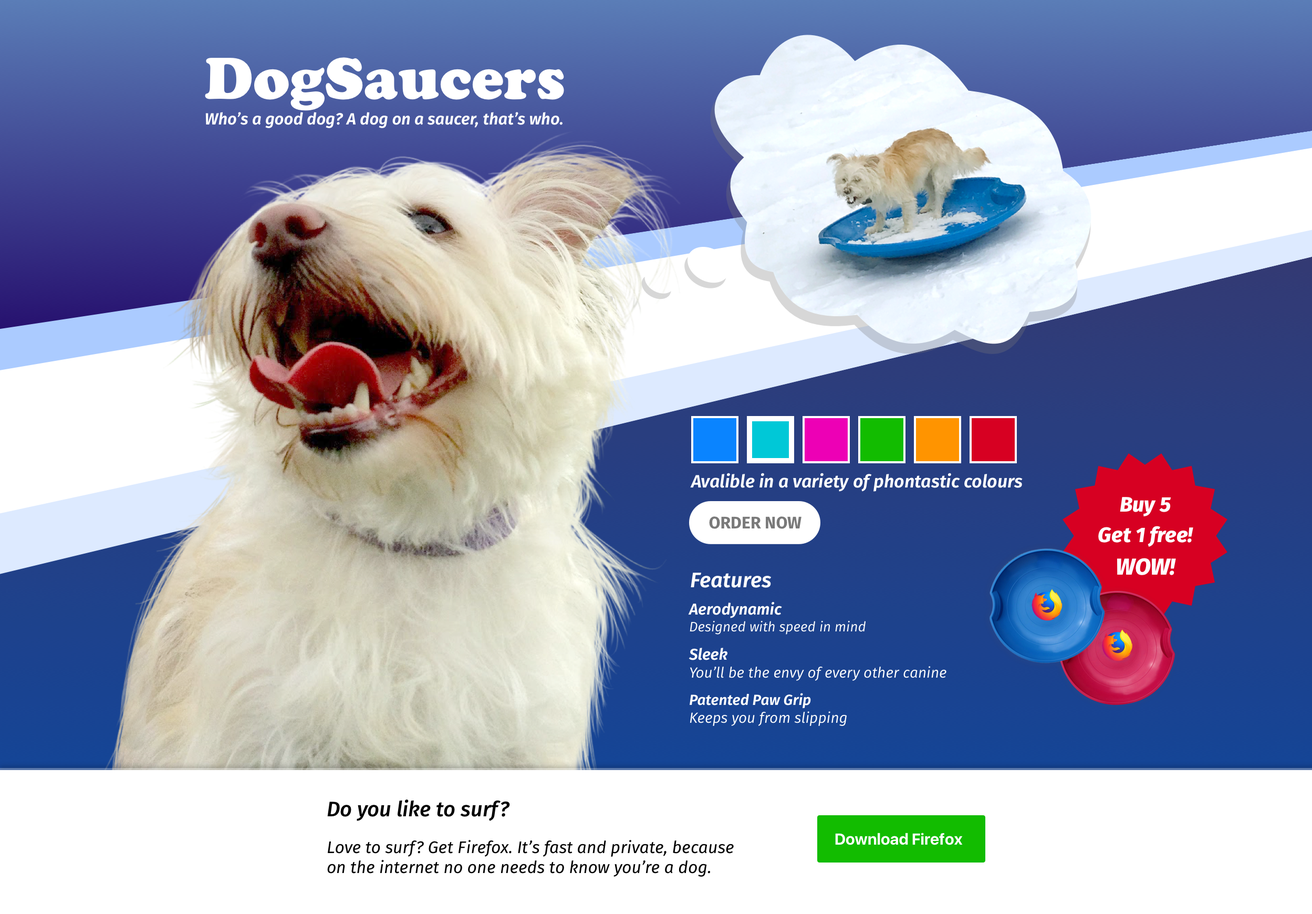
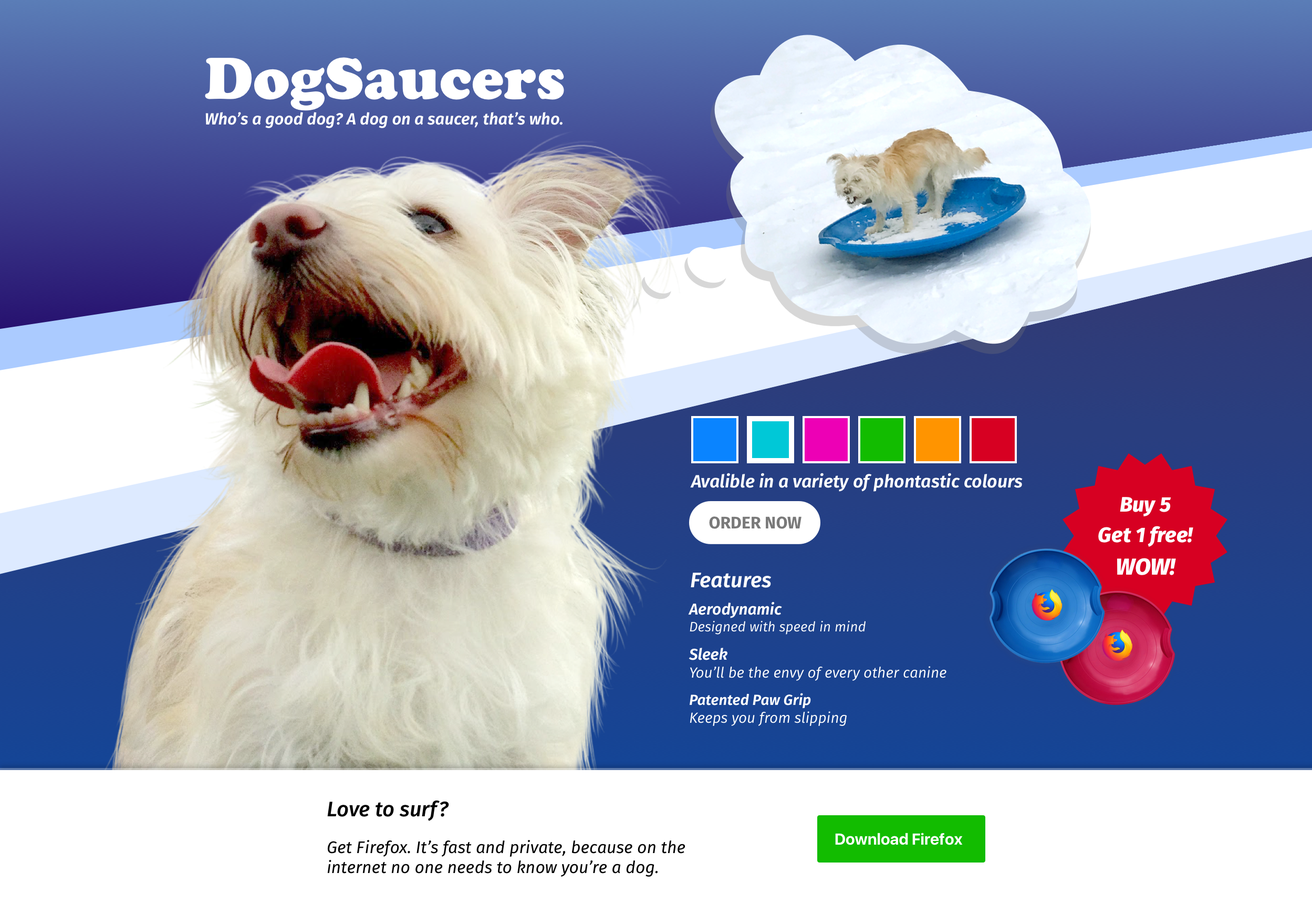
updated copy

Changed region(s): [[0.2498, 0.869, 0.562, 0.9621]]

diff --git a/DogSaucers/index.html b/DogSaucers/index.html
@@ -1559,7 +1559,7 @@ var I18N = {},
     init.prototype = SMApp.fn;
     window.SMApp = SMApp;
 })(window);
-$(function(){ SMApp({"scale":"1","unit":"px","colorFormat":"color-hex","artboards":[{"layers":[{"objectID":"B82E5E62-7A76-4EE8-A28B-AD72DE5DFCA9","type":"slice","name":"Background","rect":{"x":-251,"y":-90,"width":1718,"height":894},"exportable":[{"name":"Background","format":"png","path":"Background.png"}]},{"objectID":"BC927C8E-E163-4252-9265-FEC9E64615E8","type":"slice","name":"Thinking Bubble","rect":{"x":569,"y":-29,"width":522.9,"height":506.2},"css":["transform: rotate(29deg);"],"exportable":[{"name":"Thinking Bubble","format":"png","path":"Thinking Bubble.png"}]},{"objectID":"413C22C5-8085-4371-863E-9AFCEE9673F9","type":"shape","name":"Rectangle Copy 8","rect":{"x":923,"y":396,"width":45,"height":45},"rotation":0,"radius":0,"borders":[{"fillType":"color","position":"inside","thickness":2,"color":{"r":255,"g":255,"b":255,"a":1,"color-hex":"#FFFFFF 100%","argb-hex":"#FFFFFFFF","css-rgba":"rgba(255,255,255,1)","ui-color":"(r:1.00 g:1.00 b:1.00 a:1.00)"}}],"fills":[{"fillType":"color","color":{"r":215,"g":0,"b":34,"a":1,"color-hex":"#D70022 100%","argb-hex":"#FFD70022","css-rgba":"rgba(215,0,34,1)","ui-color":"(r:0.84 g:0.00 b:0.13 a:1.00)"}}],"shadows":[],"opacity":1,"styleName":"","css":["background: #D70022;","border: 2px solid #FFFFFF;"]},{"objectID":"34F41B57-A307-40E2-A58B-53E5737AD946","type":"shape","name":"Rectangle Copy 7","rect":{"x":870,"y":396,"width":45,"height":45},"rotation":0,"radius":0,"borders":[{"fillType":"color","position":"inside","thickness":2,"color":{"r":255,"g":255,"b":255,"a":1,"color-hex":"#FFFFFF 100%","argb-hex":"#FFFFFFFF","css-rgba":"rgba(255,255,255,1)","ui-color":"(r:1.00 g:1.00 b:1.00 a:1.00)"}}],"fills":[{"fillType":"color","color":{"r":255,"g":148,"b":0,"a":1,"color-hex":"#FF9400 100%","argb-hex":"#FFFF9400","css-rgba":"rgba(255,148,0,1)","ui-color":"(r:1.00 g:0.58 b:0.00 a:1.00)"}}],"shadows":[],"opacity":1,"styleName":"","css":["background: #FF9400;","border: 2px solid #FFFFFF;"]},{"objectID":"30F82382-0F40-4932-87BD-1883CD1652E5","type":"shape","name":"Rectangle Copy 6","rect":{"x":817,"y":396,"width":45,"height":45},"rotation":0,"radius":0,"borders":[{"fillType":"color","position":"inside","thickness":2,"color":{"r":255,"g":255,"b":255,"a":1,"color-hex":"#FFFFFF 100%","argb-hex":"#FFFFFFFF","css-rgba":"rgba(255,255,255,1)","ui-color":"(r:1.00 g:1.00 b:1.00 a:1.00)"}}],"fills":[{"fillType":"color","color":{"r":18,"g":188,"b":0,"a":1,"color-hex":"#12BC00 100%","argb-hex":"#FF12BC00","css-rgba":"rgba(18,188,0,1)","ui-color":"(r:0.07 g:0.74 b:0.00 a:1.00)"}}],"shadows":[],"opacity":1,"styleName":"","css":["background: #12BC00;","border: 2px solid #FFFFFF;"]},{"objectID":"93D53A9D-5075-4513-BC87-269CE46E301D","type":"shape","name":"Rectangle Copy 5","rect":{"x":764,"y":396,"width":45,"height":45},"rotation":0,"radius":0,"borders":[{"fillType":"color","position":"inside","thickness":2,"color":{"r":255,"g":255,"b":255,"a":1,"color-hex":"#FFFFFF 100%","argb-hex":"#FFFFFFFF","css-rgba":"rgba(255,255,255,1)","ui-color":"(r:1.00 g:1.00 b:1.00 a:1.00)"}}],"fills":[{"fillType":"color","color":{"r":237,"g":0,"b":181,"a":1,"color-hex":"#ED00B5 100%","argb-hex":"#FFED00B5","css-rgba":"rgba(237,0,181,1)","ui-color":"(r:0.93 g:0.00 b:0.71 a:1.00)"}}],"shadows":[],"opacity":1,"styleName":"","css":["background: #ED00B5;","border: 2px solid #FFFFFF;"]},{"objectID":"3247B29E-0F42-436D-83E2-F0829080C3C5","type":"shape","name":"Rectangle Copy 4","rect":{"x":711,"y":396,"width":45,"height":45},"rotation":0,"radius":0,"borders":[{"fillType":"color","position":"inside","thickness":5,"color":{"r":255,"g":255,"b":255,"a":1,"color-hex":"#FFFFFF 100%","argb-hex":"#FFFFFFFF","css-rgba":"rgba(255,255,255,1)","ui-color":"(r:1.00 g:1.00 b:1.00 a:1.00)"}}],"fills":[{"fillType":"color","color":{"r":0,"g":200,"b":215,"a":1,"color-hex":"#00C8D7 100%","argb-hex":"#FF00C8D7","css-rgba":"rgba(0,200,215,1)","ui-color":"(r:0.00 g:0.78 b:0.84 a:1.00)"}}],"shadows":[],"opacity":1,"styleName":"","css":["background: #00C8D7;","border: 5px solid #FFFFFF;"]},{"objectID":"491EA630-8860-44EA-B9E9-EACA155116CD","type":"shape","name":"Rectangle","rect":{"x":658,"y":396,"width":45,"height":45},"rotation":0,"radius":0,"borders":[{"fillType":"color","position":"inside","thickness":2,"color":{"r":255,"g":255,"b":255,"a":1,"color-hex":"#FFFFFF 100%","argb-hex":"#FFFFFFFF","css-rgba":"rgba(255,255,255,1)","ui-color":"(r:1.00 g:1.00 b:1.00 a:1.00)"}}],"fills":[{"fillType":"color","color":{"r":10,"g":132,"b":255,"a":1,"color-hex":"#0A84FF 100%","argb-hex":"#FF0A84FF","css-rgba":"rgba(10,132,255,1)","ui-color":"(r:0.04 g:0.52 b:1.00 a:1.00)"}}],"shadows":[],"opacity":1,"styleName":"","css":["background: #0A84FF;","border: 2px solid #FFFFFF;"]},{"objectID":"B928F5CD-FEB2-4170-A3C1-66516A3B3CDF","type":"text","name":"Avalible in a variet","rect":{"x":658,"y":444,"width":316,"height":25},"rotation":0,"radius":0,"borders":[],"fills":[],"shadows":[],"opacity":1,"styleName":"","content":"Avalible in a variety of phontastic colours","color":{"r":255,"g":255,"b":255,"a":1,"color-hex":"#FFFFFF 100%","argb-hex":"#FFFFFFFF","css-rgba":"rgba(255,255,255,1)","ui-color":"(r:1.00 g:1.00 b:1.00 a:1.00)"},"fontSize":17,"fontFace":"FiraSans-SemiBoldItalic","textAlign":"center","letterSpacing":0,"lineHeight":25,"css":["font-family: FiraSans-SemiBoldItalic;","font-size: 17px;","color: #FFFFFF;","text-align: center;"]},{"objectID":"D58E6F9F-504D-4F03-8517-450373BC09C7","type":"shape","name":"Rectangle","rect":{"x":656,"y":477,"width":125,"height":40.9},"rotation":0,"radius":27,"borders":[],"fills":[{"fillType":"color","color":{"r":255,"g":255,"b":255,"a":1,"color-hex":"#FFFFFF 100%","argb-hex":"#FFFFFFFF","css-rgba":"rgba(255,255,255,1)","ui-color":"(r:1.00 g:1.00 b:1.00 a:1.00)"}}],"shadows":[],"opacity":1,"styleName":"","css":["background: #FFFFFF;","border-radius: 27px;"]},{"objectID":"8D6F12E6-931F-4FDB-99A5-1C9A840F957F","type":"text","name":"ORDER NOW","rect":{"x":674.5,"y":484,"width":89,"height":23},"rotation":0,"radius":0,"borders":[],"fills":[],"shadows":[],"opacity":1,"styleName":"","content":"ORDER NOW","color":{"r":121,"g":121,"b":121,"a":1,"color-hex":"#797979 100%","argb-hex":"#FF797979","css-rgba":"rgba(121,121,121,1)","ui-color":"(r:0.48 g:0.48 b:0.48 a:1.00)"},"fontSize":16,"fontFace":"FiraSans-Bold","textAlign":"center","letterSpacing":0,"lineHeight":23,"css":["font-family: FiraSans-Bold;","font-size: 16px;","color: #797979;","text-align: center;"]},{"objectID":"26276762-3FEC-4CED-9EF6-79177BF77310","type":"text","name":"Features","rect":{"x":657,"y":535,"width":78,"height":29},"rotation":0,"radius":0,"borders":[],"fills":[],"shadows":[],"opacity":1,"styleName":"","content":"Features","color":{"r":255,"g":255,"b":255,"a":1,"color-hex":"#FFFFFF 100%","argb-hex":"#FFFFFFFF","css-rgba":"rgba(255,255,255,1)","ui-color":"(r:1.00 g:1.00 b:1.00 a:1.00)"},"fontSize":20,"fontFace":"FiraSans-SemiBoldItalic","textAlign":"left","letterSpacing":0,"lineHeight":29,"css":["font-family: FiraSans-SemiBoldItalic;","font-size: 20px;","color: #FFFFFF;"]},{"objectID":"6778FE0F-FB19-41B7-9131-A00E43492C63","type":"text","name":"Aerodynamic Designed","rect":{"x":656,"y":567,"width":169,"height":60},"rotation":0,"radius":0,"borders":[],"fills":[],"shadows":[],"opacity":1,"styleName":"","content":"Aerodynamic\nDesigned with speed in mind\n\n","color":{"r":255,"g":255,"b":255,"a":1,"color-hex":"#FFFFFF 100%","argb-hex":"#FFFFFFFF","css-rgba":"rgba(255,255,255,1)","ui-color":"(r:1.00 g:1.00 b:1.00 a:1.00)"},"fontSize":15,"fontFace":"FiraSans-SemiBoldItalic","textAlign":"left","letterSpacing":0,"lineHeight":22,"css":["font-family: FiraSans-SemiBoldItalic;","font-size: 15px;","color: #FFFFFF;"]},{"objectID":"C992AD30-0404-4ECB-A3D0-D903383E156B","type":"text","name":"Designed with speed in mind","rect":{"x":656,"y":589,"width":169,"height":22},"rotation":0,"radius":0,"borders":[],"fills":[],"shadows":[],"opacity":1,"styleName":"","content":"Designed with speed in mind","color":{"r":null,"g":null,"b":null,"a":1,"color-hex":"#000000 100%","argb-hex":"#FF000000","css-rgba":"rgba(NaN,NaN,NaN,1)","ui-color":"(r:NaN g:NaN b:NaN a:1.00)"},"fontSize":13,"fontFace":"FiraSans-BookItalic","textAlign":"left","letterSpacing":0,"lineHeight":22,"css":["font-family: FiraSans-BookItalic;","font-size: 13px;","color: #000000;","line-height: 22px;"]},{"objectID":"91DEB022-C065-4ED3-AD8B-30E081129F62","type":"text","name":"Sleek You’ll be the","rect":{"x":656,"y":610,"width":246,"height":39},"rotation":0,"radius":0,"borders":[],"fills":[],"shadows":[],"opacity":1,"styleName":"","content":"Sleek\nYou’ll be the envy of every other canine","color":{"r":255,"g":255,"b":255,"a":1,"color-hex":"#FFFFFF 100%","argb-hex":"#FFFFFFFF","css-rgba":"rgba(255,255,255,1)","ui-color":"(r:1.00 g:1.00 b:1.00 a:1.00)"},"fontSize":15,"fontFace":"FiraSans-SemiBoldItalic","textAlign":"left","letterSpacing":0,"lineHeight":22,"css":["font-family: FiraSans-SemiBoldItalic;","font-size: 15px;","color: #FFFFFF;"]},{"objectID":"F075AB5E-24DD-4470-A16D-E4E740BEB360","type":"text","name":"You’ll be the envy of every other canine","rect":{"x":656,"y":632,"width":246,"height":22},"rotation":0,"radius":0,"borders":[],"fills":[],"shadows":[],"opacity":1,"styleName":"","content":"You’ll be the envy of every other canine","color":{"r":null,"g":null,"b":null,"a":1,"color-hex":"#000000 100%","argb-hex":"#FF000000","css-rgba":"rgba(NaN,NaN,NaN,1)","ui-color":"(r:NaN g:NaN b:NaN a:1.00)"},"fontSize":14,"fontFace":"FiraSans-BookItalic","textAlign":"left","letterSpacing":0,"lineHeight":22,"css":["font-family: FiraSans-BookItalic;","font-size: 14px;","color: #000000;","line-height: 22px;"]},{"objectID":"3848D95C-EAD8-4EF2-B724-4374BB6DDEE7","type":"text","name":"Patented Paw Grip Ke","rect":{"x":656,"y":655,"width":152,"height":37},"rotation":0,"radius":0,"borders":[],"fills":[],"shadows":[],"opacity":1,"styleName":"","content":"Patented Paw Grip\nKeeps you from slipping","color":{"r":255,"g":255,"b":255,"a":1,"color-hex":"#FFFFFF 100%","argb-hex":"#FFFFFFFF","css-rgba":"rgba(255,255,255,1)","ui-color":"(r:1.00 g:1.00 b:1.00 a:1.00)"},"fontSize":14,"fontFace":"FiraSans-SemiBoldItalic","textAlign":"left","letterSpacing":0,"lineHeight":22,"css":["font-family: FiraSans-SemiBoldItalic;","font-size: 14px;","color: #FFFFFF;","line-height: 22px;"]},{"objectID":"E3A0ACB3-C0C2-443D-9343-FC05BA3D0307","type":"text","name":"Keeps you from slipping","rect":{"x":656,"y":675,"width":152,"height":22},"rotation":0,"radius":0,"borders":[],"fills":[],"shadows":[],"opacity":1,"styleName":"","content":"Keeps you from slipping","color":{"r":null,"g":null,"b":null,"a":1,"color-hex":"#000000 100%","argb-hex":"#FF000000","css-rgba":"rgba(NaN,NaN,NaN,1)","ui-color":"(r:NaN g:NaN b:NaN a:1.00)"},"fontSize":14,"fontFace":"FiraSans-BookItalic","textAlign":"left","letterSpacing":0,"lineHeight":22,"css":["font-family: FiraSans-BookItalic;","font-size: 14px;","color: #000000;","line-height: 22px;"]},{"objectID":"45B88128-3A1F-4207-AF5C-86C8C7CD6616","type":"slice","name":"BOGO Badge","rect":{"x":905,"y":430,"width":265,"height":303},"exportable":[{"name":"BOGO Badge","format":"png","path":"BOGO Badge.png"}]},{"objectID":"47F47D19-2305-41D7-8202-B84B58816A76","type":"slice","name":"Dog","rect":{"x":-31,"y":98,"width":697,"height":730},"exportable":[{"name":"Dog","format":"png","path":"Dog.png"}]},{"objectID":"65DDCA85-29C2-4DB9-9913-4391ED3CEEEB","type":"shape","name":"Rectangle","rect":{"x":0,"y":733,"width":1259,"height":181},"rotation":0,"radius":0,"borders":[],"fills":[{"fillType":"color","color":{"r":255,"g":255,"b":255,"a":1,"color-hex":"#FFFFFF 100%","argb-hex":"#FFFFFFFF","css-rgba":"rgba(255,255,255,1)","ui-color":"(r:1.00 g:1.00 b:1.00 a:1.00)"}}],"shadows":[{"type":"outer","offsetX":0,"offsetY":-5,"blurRadius":4,"spread":0,"color":{"r":0,"g":0,"b":0,"a":0.1,"color-hex":"#000000 10%","argb-hex":"#1A000000","css-rgba":"rgba(0,0,0,0.1)","ui-color":"(r:0.00 g:0.00 b:0.00 a:0.10)"}}],"opacity":1,"styleName":"","css":["background: #FFFFFF;","box-shadow: 0 -5px 4px 0 rgba(0,0,0,0.10);"]},{"objectID":"411D0B2A-7335-4A28-9105-ADF4C04E713B","type":"slice","name":"Logo","rect":{"x":188,"y":55,"width":356,"height":68},"exportable":[{"name":"Logo","format":"png","path":"Logo.png"}]},{"objectID":"8E342521-F6D2-4715-90FE-BC881BA777E2","type":"shape","name":"Background Copy","rect":{"x":0,"y":731,"width":1249,"height":181},"rotation":0,"radius":0,"borders":[],"fills":[{"fillType":"color","color":{"r":255,"g":255,"b":255,"a":0.3,"color-hex":"#FFFFFF 30%","argb-hex":"#4DFFFFFF","css-rgba":"rgba(255,255,255,0.3)","ui-color":"(r:1.00 g:1.00 b:1.00 a:0.30)"}}],"shadows":[{"type":"outer","offsetX":0,"offsetY":1,"blurRadius":4,"spread":0,"color":{"r":0,"g":0,"b":0,"a":0.2,"color-hex":"#000000 20%","argb-hex":"#33000000","css-rgba":"rgba(0,0,0,0.2)","ui-color":"(r:0.00 g:0.00 b:0.00 a:0.20)"}}],"opacity":1,"styleName":"","css":["background: rgba(255,255,255,0.30);","box-shadow: 0 1px 4px 0 rgba(0,0,0,0.20);"]},{"objectID":"D6A12E59-9A88-4D9D-969E-10196779BD4F","type":"shape","name":"Rectangle 12","rect":{"x":778,"y":776,"width":160,"height":45},"rotation":0,"radius":2,"borders":[],"fills":[{"fillType":"color","color":{"r":18,"g":188,"b":0,"a":1,"color-hex":"#12BC00 100%","argb-hex":"#FF12BC00","css-rgba":"rgba(18,188,0,1)","ui-color":"(r:0.07 g:0.74 b:0.00 a:1.00)"}}],"shadows":[],"opacity":1,"styleName":"","css":["background: #12BC00;","border-radius: 2px;"]},{"objectID":"2EA06D75-FAA5-45A4-B26D-3A701DF0CCEC","type":"text","name":"Download Firefox","rect":{"x":790,"y":790,"width":131,"height":23},"rotation":0,"radius":0,"borders":[],"fills":[],"shadows":[],"opacity":1,"styleName":"","content":"Download Firefox","color":{"r":255,"g":255,"b":255,"a":1,"color-hex":"#FFFFFF 100%","argb-hex":"#FFFFFFFF","css-rgba":"rgba(255,255,255,1)","ui-color":"(r:1.00 g:1.00 b:1.00 a:1.00)"},"fontSize":15,"fontFace":"SFUIDisplay-Bold","textAlign":"center","letterSpacing":0,"lineHeight":16,"css":["font-family: SFUIDisplay-Bold;","font-size: 15px;","color: #FFFFFF;","letter-spacing: 0;","text-align: center;","line-height: 16px;"]},{"objectID":"147BCD92-18AE-4F23-8449-C5B71463815F","type":"text","name":"Do you like to surf?","rect":{"x":311,"y":753,"width":257,"height":49},"rotation":0,"radius":0,"borders":[],"fills":[],"shadows":[],"opacity":1,"styleName":"","content":"Do you like to surf?","color":{"r":0,"g":0,"b":0,"a":1,"color-hex":"#000000 100%","argb-hex":"#FF000000","css-rgba":"rgba(0,0,0,1)","ui-color":"(r:0.00 g:0.00 b:0.00 a:1.00)"},"fontSize":20,"fontFace":"FiraSans-MediumItalic","textAlign":"left","letterSpacing":0,"lineHeight":29,"css":["font-family: FiraSans-MediumItalic;","font-size: 20px;","color: #000000;"]},{"objectID":"2FF5371B-68F8-486A-8C08-CEF947364D7B","type":"text","name":"Love to surf? Get Fi","rect":{"x":311,"y":797,"width":410,"height":169},"rotation":0,"radius":0,"borders":[],"fills":[],"shadows":[],"opacity":1,"styleName":"","content":"Love to surf? Get Firefox. It’s fast and private, because on the internet no one needs to know you’re a dog.","color":{"r":0,"g":0,"b":0,"a":1,"color-hex":"#000000 100%","argb-hex":"#FF000000","css-rgba":"rgba(0,0,0,1)","ui-color":"(r:0.00 g:0.00 b:0.00 a:1.00)"},"fontSize":16,"fontFace":"FiraSans-Italic","textAlign":"left","letterSpacing":0,"lineHeight":19,"css":["font-family: FiraSans-Italic;","font-size: 16px;","color: #000000;"]}],"notes":[],"pageName":"Page 1","pageObjectID":"E5F094BB-6F96-4384-B4E3-A14ADBD5A20A","name":"DogSaucers","slug":"page-1-dogsaucers","objectID":"D0A88B0F-5E6C-4B6F-B5DF-9C413A973B87","width":1249,"height":870,"imagePath":"preview/page-1-dogsaucers.png"}],"slices":[{"name":"Background","objectID":"B82E5E62-7A76-4EE8-A28B-AD72DE5DFCA9","rect":{"x":-251,"y":-90,"width":1718,"height":894},"exportable":[{"name":"Background","format":"png","path":"Background.png"}]},{"name":"Thinking Bubble","objectID":"BC927C8E-E163-4252-9265-FEC9E64615E8","rect":{"x":569,"y":-29,"width":522.9,"height":506.2},"exportable":[{"name":"Thinking Bubble","format":"png","path":"Thinking Bubble.png"}]},{"name":"BOGO Badge","objectID":"45B88128-3A1F-4207-AF5C-86C8C7CD6616","rect":{"x":905,"y":430,"width":265,"height":303},"exportable":[{"name":"BOGO Badge","format":"png","path":"BOGO Badge.png"}]},{"name":"Dog","objectID":"47F47D19-2305-41D7-8202-B84B58816A76","rect":{"x":-31,"y":98,"width":697,"height":730},"exportable":[{"name":"Dog","format":"png","path":"Dog.png"}]},{"name":"Logo","objectID":"411D0B2A-7335-4A28-9105-ADF4C04E713B","rect":{"x":188,"y":55,"width":356,"height":68},"exportable":[{"name":"Logo","format":"png","path":"Logo.png"}]}],"colors":[]}) });
+$(function(){ SMApp({"scale":"1","unit":"px","colorFormat":"color-hex","artboards":[{"layers":[{"objectID":"B82E5E62-7A76-4EE8-A28B-AD72DE5DFCA9","type":"slice","name":"Background","rect":{"x":-251,"y":-90,"width":1718,"height":894},"exportable":[{"name":"Background","format":"png","path":"Background.png"}]},{"objectID":"BC927C8E-E163-4252-9265-FEC9E64615E8","type":"slice","name":"Thinking Bubble","rect":{"x":569,"y":-29,"width":522.9,"height":506.2},"css":["transform: rotate(29deg);"],"exportable":[{"name":"Thinking Bubble","format":"png","path":"Thinking Bubble.png"}]},{"objectID":"413C22C5-8085-4371-863E-9AFCEE9673F9","type":"shape","name":"Rectangle Copy 8","rect":{"x":923,"y":396,"width":45,"height":45},"rotation":0,"radius":0,"borders":[{"fillType":"color","position":"inside","thickness":2,"color":{"r":255,"g":255,"b":255,"a":1,"color-hex":"#FFFFFF 100%","argb-hex":"#FFFFFFFF","css-rgba":"rgba(255,255,255,1)","ui-color":"(r:1.00 g:1.00 b:1.00 a:1.00)"}}],"fills":[{"fillType":"color","color":{"r":215,"g":0,"b":34,"a":1,"color-hex":"#D70022 100%","argb-hex":"#FFD70022","css-rgba":"rgba(215,0,34,1)","ui-color":"(r:0.84 g:0.00 b:0.13 a:1.00)"}}],"shadows":[],"opacity":1,"styleName":"","css":["background: #D70022;","border: 2px solid #FFFFFF;"]},{"objectID":"34F41B57-A307-40E2-A58B-53E5737AD946","type":"shape","name":"Rectangle Copy 7","rect":{"x":870,"y":396,"width":45,"height":45},"rotation":0,"radius":0,"borders":[{"fillType":"color","position":"inside","thickness":2,"color":{"r":255,"g":255,"b":255,"a":1,"color-hex":"#FFFFFF 100%","argb-hex":"#FFFFFFFF","css-rgba":"rgba(255,255,255,1)","ui-color":"(r:1.00 g:1.00 b:1.00 a:1.00)"}}],"fills":[{"fillType":"color","color":{"r":255,"g":148,"b":0,"a":1,"color-hex":"#FF9400 100%","argb-hex":"#FFFF9400","css-rgba":"rgba(255,148,0,1)","ui-color":"(r:1.00 g:0.58 b:0.00 a:1.00)"}}],"shadows":[],"opacity":1,"styleName":"","css":["background: #FF9400;","border: 2px solid #FFFFFF;"]},{"objectID":"30F82382-0F40-4932-87BD-1883CD1652E5","type":"shape","name":"Rectangle Copy 6","rect":{"x":817,"y":396,"width":45,"height":45},"rotation":0,"radius":0,"borders":[{"fillType":"color","position":"inside","thickness":2,"color":{"r":255,"g":255,"b":255,"a":1,"color-hex":"#FFFFFF 100%","argb-hex":"#FFFFFFFF","css-rgba":"rgba(255,255,255,1)","ui-color":"(r:1.00 g:1.00 b:1.00 a:1.00)"}}],"fills":[{"fillType":"color","color":{"r":18,"g":188,"b":0,"a":1,"color-hex":"#12BC00 100%","argb-hex":"#FF12BC00","css-rgba":"rgba(18,188,0,1)","ui-color":"(r:0.07 g:0.74 b:0.00 a:1.00)"}}],"shadows":[],"opacity":1,"styleName":"","css":["background: #12BC00;","border: 2px solid #FFFFFF;"]},{"objectID":"93D53A9D-5075-4513-BC87-269CE46E301D","type":"shape","name":"Rectangle Copy 5","rect":{"x":764,"y":396,"width":45,"height":45},"rotation":0,"radius":0,"borders":[{"fillType":"color","position":"inside","thickness":2,"color":{"r":255,"g":255,"b":255,"a":1,"color-hex":"#FFFFFF 100%","argb-hex":"#FFFFFFFF","css-rgba":"rgba(255,255,255,1)","ui-color":"(r:1.00 g:1.00 b:1.00 a:1.00)"}}],"fills":[{"fillType":"color","color":{"r":237,"g":0,"b":181,"a":1,"color-hex":"#ED00B5 100%","argb-hex":"#FFED00B5","css-rgba":"rgba(237,0,181,1)","ui-color":"(r:0.93 g:0.00 b:0.71 a:1.00)"}}],"shadows":[],"opacity":1,"styleName":"","css":["background: #ED00B5;","border: 2px solid #FFFFFF;"]},{"objectID":"3247B29E-0F42-436D-83E2-F0829080C3C5","type":"shape","name":"Rectangle Copy 4","rect":{"x":711,"y":396,"width":45,"height":45},"rotation":0,"radius":0,"borders":[{"fillType":"color","position":"inside","thickness":5,"color":{"r":255,"g":255,"b":255,"a":1,"color-hex":"#FFFFFF 100%","argb-hex":"#FFFFFFFF","css-rgba":"rgba(255,255,255,1)","ui-color":"(r:1.00 g:1.00 b:1.00 a:1.00)"}}],"fills":[{"fillType":"color","color":{"r":0,"g":200,"b":215,"a":1,"color-hex":"#00C8D7 100%","argb-hex":"#FF00C8D7","css-rgba":"rgba(0,200,215,1)","ui-color":"(r:0.00 g:0.78 b:0.84 a:1.00)"}}],"shadows":[],"opacity":1,"styleName":"","css":["background: #00C8D7;","border: 5px solid #FFFFFF;"]},{"objectID":"491EA630-8860-44EA-B9E9-EACA155116CD","type":"shape","name":"Rectangle","rect":{"x":658,"y":396,"width":45,"height":45},"rotation":0,"radius":0,"borders":[{"fillType":"color","position":"inside","thickness":2,"color":{"r":255,"g":255,"b":255,"a":1,"color-hex":"#FFFFFF 100%","argb-hex":"#FFFFFFFF","css-rgba":"rgba(255,255,255,1)","ui-color":"(r:1.00 g:1.00 b:1.00 a:1.00)"}}],"fills":[{"fillType":"color","color":{"r":10,"g":132,"b":255,"a":1,"color-hex":"#0A84FF 100%","argb-hex":"#FF0A84FF","css-rgba":"rgba(10,132,255,1)","ui-color":"(r:0.04 g:0.52 b:1.00 a:1.00)"}}],"shadows":[],"opacity":1,"styleName":"","css":["background: #0A84FF;","border: 2px solid #FFFFFF;"]},{"objectID":"B928F5CD-FEB2-4170-A3C1-66516A3B3CDF","type":"text","name":"Avalible in a variet","rect":{"x":658,"y":444,"width":316,"height":25},"rotation":0,"radius":0,"borders":[],"fills":[],"shadows":[],"opacity":1,"styleName":"","content":"Avalible in a variety of phontastic colours","color":{"r":255,"g":255,"b":255,"a":1,"color-hex":"#FFFFFF 100%","argb-hex":"#FFFFFFFF","css-rgba":"rgba(255,255,255,1)","ui-color":"(r:1.00 g:1.00 b:1.00 a:1.00)"},"fontSize":17,"fontFace":"FiraSans-SemiBoldItalic","textAlign":"center","letterSpacing":0,"lineHeight":25,"css":["font-family: FiraSans-SemiBoldItalic;","font-size: 17px;","color: #FFFFFF;","text-align: center;"]},{"objectID":"D58E6F9F-504D-4F03-8517-450373BC09C7","type":"shape","name":"Rectangle","rect":{"x":656,"y":477,"width":125,"height":40.9},"rotation":0,"radius":27,"borders":[],"fills":[{"fillType":"color","color":{"r":255,"g":255,"b":255,"a":1,"color-hex":"#FFFFFF 100%","argb-hex":"#FFFFFFFF","css-rgba":"rgba(255,255,255,1)","ui-color":"(r:1.00 g:1.00 b:1.00 a:1.00)"}}],"shadows":[],"opacity":1,"styleName":"","css":["background: #FFFFFF;","border-radius: 27px;"]},{"objectID":"8D6F12E6-931F-4FDB-99A5-1C9A840F957F","type":"text","name":"ORDER NOW","rect":{"x":674.5,"y":484,"width":89,"height":23},"rotation":0,"radius":0,"borders":[],"fills":[],"shadows":[],"opacity":1,"styleName":"","content":"ORDER NOW","color":{"r":121,"g":121,"b":121,"a":1,"color-hex":"#797979 100%","argb-hex":"#FF797979","css-rgba":"rgba(121,121,121,1)","ui-color":"(r:0.48 g:0.48 b:0.48 a:1.00)"},"fontSize":16,"fontFace":"FiraSans-Bold","textAlign":"center","letterSpacing":0,"lineHeight":23,"css":["font-family: FiraSans-Bold;","font-size: 16px;","color: #797979;","text-align: center;"]},{"objectID":"26276762-3FEC-4CED-9EF6-79177BF77310","type":"text","name":"Features","rect":{"x":657,"y":535,"width":78,"height":29},"rotation":0,"radius":0,"borders":[],"fills":[],"shadows":[],"opacity":1,"styleName":"","content":"Features","color":{"r":255,"g":255,"b":255,"a":1,"color-hex":"#FFFFFF 100%","argb-hex":"#FFFFFFFF","css-rgba":"rgba(255,255,255,1)","ui-color":"(r:1.00 g:1.00 b:1.00 a:1.00)"},"fontSize":20,"fontFace":"FiraSans-SemiBoldItalic","textAlign":"left","letterSpacing":0,"lineHeight":29,"css":["font-family: FiraSans-SemiBoldItalic;","font-size: 20px;","color: #FFFFFF;"]},{"objectID":"6778FE0F-FB19-41B7-9131-A00E43492C63","type":"text","name":"Aerodynamic Designed","rect":{"x":656,"y":567,"width":169,"height":60},"rotation":0,"radius":0,"borders":[],"fills":[],"shadows":[],"opacity":1,"styleName":"","content":"Aerodynamic\nDesigned with speed in mind\n\n","color":{"r":255,"g":255,"b":255,"a":1,"color-hex":"#FFFFFF 100%","argb-hex":"#FFFFFFFF","css-rgba":"rgba(255,255,255,1)","ui-color":"(r:1.00 g:1.00 b:1.00 a:1.00)"},"fontSize":15,"fontFace":"FiraSans-SemiBoldItalic","textAlign":"left","letterSpacing":0,"lineHeight":22,"css":["font-family: FiraSans-SemiBoldItalic;","font-size: 15px;","color: #FFFFFF;"]},{"objectID":"EE193DAB-5C3D-40D0-8DE3-D6707E68F28F","type":"text","name":"Designed with speed in mind","rect":{"x":656,"y":589,"width":169,"height":22},"rotation":0,"radius":0,"borders":[],"fills":[],"shadows":[],"opacity":1,"styleName":"","content":"Designed with speed in mind","color":{"r":null,"g":null,"b":null,"a":1,"color-hex":"#000000 100%","argb-hex":"#FF000000","css-rgba":"rgba(NaN,NaN,NaN,1)","ui-color":"(r:NaN g:NaN b:NaN a:1.00)"},"fontSize":13,"fontFace":"FiraSans-BookItalic","textAlign":"left","letterSpacing":0,"lineHeight":22,"css":["font-family: FiraSans-BookItalic;","font-size: 13px;","color: #000000;","line-height: 22px;"]},{"objectID":"91DEB022-C065-4ED3-AD8B-30E081129F62","type":"text","name":"Sleek You’ll be the","rect":{"x":656,"y":610,"width":246,"height":39},"rotation":0,"radius":0,"borders":[],"fills":[],"shadows":[],"opacity":1,"styleName":"","content":"Sleek\nYou’ll be the envy of every other canine","color":{"r":255,"g":255,"b":255,"a":1,"color-hex":"#FFFFFF 100%","argb-hex":"#FFFFFFFF","css-rgba":"rgba(255,255,255,1)","ui-color":"(r:1.00 g:1.00 b:1.00 a:1.00)"},"fontSize":15,"fontFace":"FiraSans-SemiBoldItalic","textAlign":"left","letterSpacing":0,"lineHeight":22,"css":["font-family: FiraSans-SemiBoldItalic;","font-size: 15px;","color: #FFFFFF;"]},{"objectID":"1FAC9419-E7D1-433E-BB51-BA2358B0C50F","type":"text","name":"You’ll be the envy of every other canine","rect":{"x":656,"y":632,"width":246,"height":22},"rotation":0,"radius":0,"borders":[],"fills":[],"shadows":[],"opacity":1,"styleName":"","content":"You’ll be the envy of every other canine","color":{"r":null,"g":null,"b":null,"a":1,"color-hex":"#000000 100%","argb-hex":"#FF000000","css-rgba":"rgba(NaN,NaN,NaN,1)","ui-color":"(r:NaN g:NaN b:NaN a:1.00)"},"fontSize":14,"fontFace":"FiraSans-BookItalic","textAlign":"left","letterSpacing":0,"lineHeight":22,"css":["font-family: FiraSans-BookItalic;","font-size: 14px;","color: #000000;","line-height: 22px;"]},{"objectID":"3848D95C-EAD8-4EF2-B724-4374BB6DDEE7","type":"text","name":"Patented Paw Grip Ke","rect":{"x":656,"y":655,"width":152,"height":37},"rotation":0,"radius":0,"borders":[],"fills":[],"shadows":[],"opacity":1,"styleName":"","content":"Patented Paw Grip\nKeeps you from slipping","color":{"r":255,"g":255,"b":255,"a":1,"color-hex":"#FFFFFF 100%","argb-hex":"#FFFFFFFF","css-rgba":"rgba(255,255,255,1)","ui-color":"(r:1.00 g:1.00 b:1.00 a:1.00)"},"fontSize":14,"fontFace":"FiraSans-SemiBoldItalic","textAlign":"left","letterSpacing":0,"lineHeight":22,"css":["font-family: FiraSans-SemiBoldItalic;","font-size: 14px;","color: #FFFFFF;","line-height: 22px;"]},{"objectID":"2A97C89A-D64A-4473-80DA-D2AEB569CB12","type":"text","name":"Keeps you from slipping","rect":{"x":656,"y":675,"width":152,"height":22},"rotation":0,"radius":0,"borders":[],"fills":[],"shadows":[],"opacity":1,"styleName":"","content":"Keeps you from slipping","color":{"r":null,"g":null,"b":null,"a":1,"color-hex":"#000000 100%","argb-hex":"#FF000000","css-rgba":"rgba(NaN,NaN,NaN,1)","ui-color":"(r:NaN g:NaN b:NaN a:1.00)"},"fontSize":14,"fontFace":"FiraSans-BookItalic","textAlign":"left","letterSpacing":0,"lineHeight":22,"css":["font-family: FiraSans-BookItalic;","font-size: 14px;","color: #000000;","line-height: 22px;"]},{"objectID":"45B88128-3A1F-4207-AF5C-86C8C7CD6616","type":"slice","name":"BOGO Badge","rect":{"x":905,"y":430,"width":265,"height":303},"exportable":[{"name":"BOGO Badge","format":"png","path":"BOGO Badge.png"}]},{"objectID":"47F47D19-2305-41D7-8202-B84B58816A76","type":"slice","name":"Dog","rect":{"x":-31,"y":98,"width":697,"height":730},"exportable":[{"name":"Dog","format":"png","path":"Dog.png"}]},{"objectID":"65DDCA85-29C2-4DB9-9913-4391ED3CEEEB","type":"shape","name":"Rectangle","rect":{"x":0,"y":733,"width":1259,"height":181},"rotation":0,"radius":0,"borders":[],"fills":[{"fillType":"color","color":{"r":255,"g":255,"b":255,"a":1,"color-hex":"#FFFFFF 100%","argb-hex":"#FFFFFFFF","css-rgba":"rgba(255,255,255,1)","ui-color":"(r:1.00 g:1.00 b:1.00 a:1.00)"}}],"shadows":[{"type":"outer","offsetX":0,"offsetY":-5,"blurRadius":4,"spread":0,"color":{"r":0,"g":0,"b":0,"a":0.1,"color-hex":"#000000 10%","argb-hex":"#1A000000","css-rgba":"rgba(0,0,0,0.1)","ui-color":"(r:0.00 g:0.00 b:0.00 a:0.10)"}}],"opacity":1,"styleName":"","css":["background: #FFFFFF;","box-shadow: 0 -5px 4px 0 rgba(0,0,0,0.10);"]},{"objectID":"411D0B2A-7335-4A28-9105-ADF4C04E713B","type":"slice","name":"Logo","rect":{"x":188,"y":55,"width":356,"height":68},"exportable":[{"name":"Logo","format":"png","path":"Logo.png"}]},{"objectID":"8E342521-F6D2-4715-90FE-BC881BA777E2","type":"shape","name":"Background Copy","rect":{"x":0,"y":731,"width":1249,"height":181},"rotation":0,"radius":0,"borders":[],"fills":[{"fillType":"color","color":{"r":255,"g":255,"b":255,"a":0.3,"color-hex":"#FFFFFF 30%","argb-hex":"#4DFFFFFF","css-rgba":"rgba(255,255,255,0.3)","ui-color":"(r:1.00 g:1.00 b:1.00 a:0.30)"}}],"shadows":[{"type":"outer","offsetX":0,"offsetY":1,"blurRadius":4,"spread":0,"color":{"r":0,"g":0,"b":0,"a":0.2,"color-hex":"#000000 20%","argb-hex":"#33000000","css-rgba":"rgba(0,0,0,0.2)","ui-color":"(r:0.00 g:0.00 b:0.00 a:0.20)"}}],"opacity":1,"styleName":"","css":["background: rgba(255,255,255,0.30);","box-shadow: 0 1px 4px 0 rgba(0,0,0,0.20);"]},{"objectID":"D6A12E59-9A88-4D9D-969E-10196779BD4F","type":"shape","name":"Rectangle 12","rect":{"x":778,"y":776,"width":160,"height":45},"rotation":0,"radius":2,"borders":[],"fills":[{"fillType":"color","color":{"r":18,"g":188,"b":0,"a":1,"color-hex":"#12BC00 100%","argb-hex":"#FF12BC00","css-rgba":"rgba(18,188,0,1)","ui-color":"(r:0.07 g:0.74 b:0.00 a:1.00)"}}],"shadows":[],"opacity":1,"styleName":"","css":["background: #12BC00;","border-radius: 2px;"]},{"objectID":"2EA06D75-FAA5-45A4-B26D-3A701DF0CCEC","type":"text","name":"Download Firefox","rect":{"x":790,"y":790,"width":131,"height":23},"rotation":0,"radius":0,"borders":[],"fills":[],"shadows":[],"opacity":1,"styleName":"","content":"Download Firefox","color":{"r":255,"g":255,"b":255,"a":1,"color-hex":"#FFFFFF 100%","argb-hex":"#FFFFFFFF","css-rgba":"rgba(255,255,255,1)","ui-color":"(r:1.00 g:1.00 b:1.00 a:1.00)"},"fontSize":15,"fontFace":"SFUIDisplay-Bold","textAlign":"center","letterSpacing":0,"lineHeight":16,"css":["font-family: SFUIDisplay-Bold;","font-size: 15px;","color: #FFFFFF;","letter-spacing: 0;","text-align: center;","line-height: 16px;"]},{"objectID":"147BCD92-18AE-4F23-8449-C5B71463815F","type":"text","name":"Love to surf?","rect":{"x":311,"y":753,"width":257,"height":49},"rotation":0,"radius":0,"borders":[],"fills":[],"shadows":[],"opacity":1,"styleName":"","content":"Love to surf?","color":{"r":0,"g":0,"b":0,"a":1,"color-hex":"#000000 100%","argb-hex":"#FF000000","css-rgba":"rgba(0,0,0,1)","ui-color":"(r:0.00 g:0.00 b:0.00 a:1.00)"},"fontSize":20,"fontFace":"FiraSans-MediumItalic","textAlign":"left","letterSpacing":0,"lineHeight":29,"css":["font-family: FiraSans-MediumItalic;","font-size: 20px;","color: #000000;"]},{"objectID":"2FF5371B-68F8-486A-8C08-CEF947364D7B","type":"text","name":"Get Firefox. It’s fa","rect":{"x":311,"y":797,"width":400,"height":169},"rotation":0,"radius":0,"borders":[],"fills":[],"shadows":[],"opacity":1,"styleName":"","content":"Get Firefox. It’s fast and private, because on the internet no one needs to know you’re a dog.","color":{"r":0,"g":0,"b":0,"a":1,"color-hex":"#000000 100%","argb-hex":"#FF000000","css-rgba":"rgba(0,0,0,1)","ui-color":"(r:0.00 g:0.00 b:0.00 a:1.00)"},"fontSize":16,"fontFace":"FiraSans-Italic","textAlign":"left","letterSpacing":0,"lineHeight":19,"css":["font-family: FiraSans-Italic;","font-size: 16px;","color: #000000;"]}],"notes":[],"pageName":"Page 1","pageObjectID":"E5F094BB-6F96-4384-B4E3-A14ADBD5A20A","name":"DogSaucers","slug":"page-1-dogsaucers","objectID":"D0A88B0F-5E6C-4B6F-B5DF-9C413A973B87","width":1249,"height":870,"imagePath":"preview/page-1-dogsaucers.png"}],"slices":[{"name":"Background","objectID":"B82E5E62-7A76-4EE8-A28B-AD72DE5DFCA9","rect":{"x":-251,"y":-90,"width":1718,"height":894},"exportable":[{"name":"Background","format":"png","path":"Background.png"}]},{"name":"Thinking Bubble","objectID":"BC927C8E-E163-4252-9265-FEC9E64615E8","rect":{"x":569,"y":-29,"width":522.9,"height":506.2},"exportable":[{"name":"Thinking Bubble","format":"png","path":"Thinking Bubble.png"}]},{"name":"BOGO Badge","objectID":"45B88128-3A1F-4207-AF5C-86C8C7CD6616","rect":{"x":905,"y":430,"width":265,"height":303},"exportable":[{"name":"BOGO Badge","format":"png","path":"BOGO Badge.png"}]},{"name":"Dog","objectID":"47F47D19-2305-41D7-8202-B84B58816A76","rect":{"x":-31,"y":98,"width":697,"height":730},"exportable":[{"name":"Dog","format":"png","path":"Dog.png"}]},{"name":"Logo","objectID":"411D0B2A-7335-4A28-9105-ADF4C04E713B","rect":{"x":188,"y":55,"width":356,"height":68},"exportable":[{"name":"Logo","format":"png","path":"Logo.png"}]}],"colors":[]}) });
     -->
     </script>
   </head>
